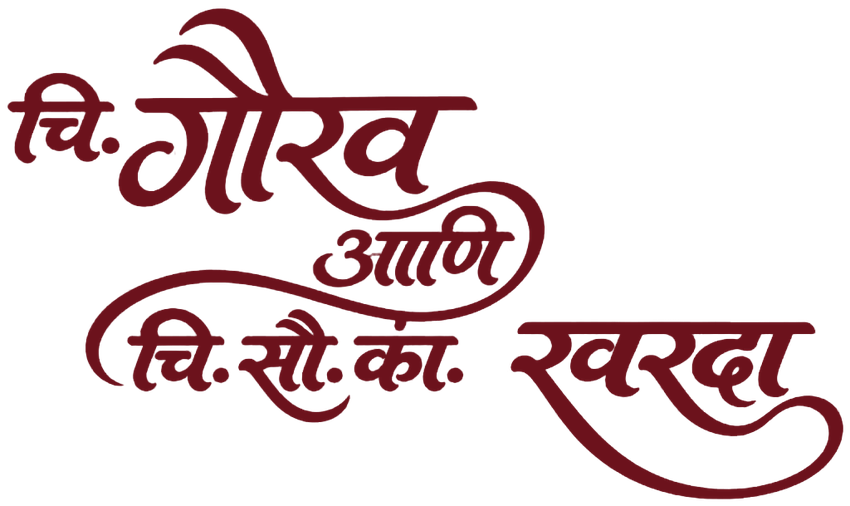
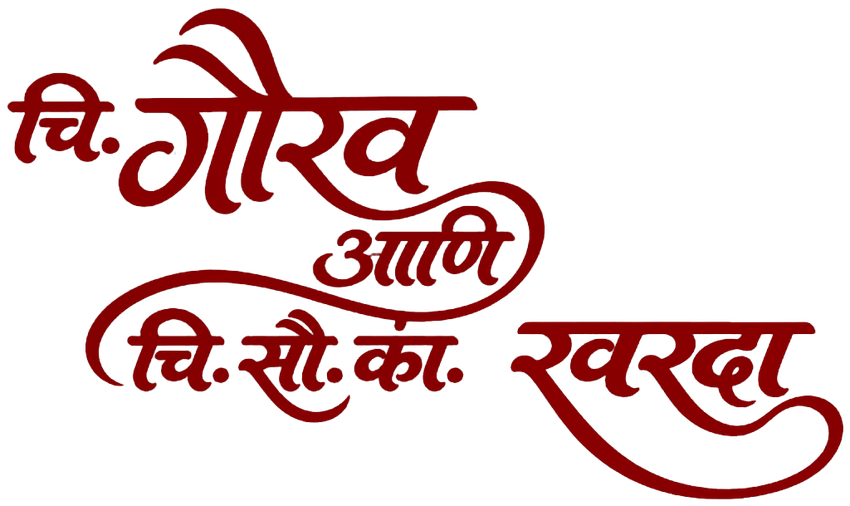
Update couple calligraphy color to match bride invitation crimson tone (#7D0001)

Changed region(s): [[0.0, 0.0, 0.6424, 0.83], [0.5812, 0.6225, 1.0, 1.0]]

diff --git a/index.html b/index.html
@@ -15,15 +15,15 @@
   <link rel="preconnect" href="https://fonts.googleapis.com">
   <link rel="preconnect" href="https://fonts.gstatic.com" crossorigin>
   <link rel="preconnect" href="https://ik.imagekit.io">
-  <link rel="preload" as="image" href="assets/couple-calligraphy.webp?v=11" type="image/webp" fetchpriority="high">
-  <link rel="preload" as="image" href="assets/couple-calligraphy-sec3.webp?v=11" type="image/webp">
+  <link rel="preload" as="image" href="assets/couple-calligraphy.webp?v=12" type="image/webp" fetchpriority="high">
+  <link rel="preload" as="image" href="assets/couple-calligraphy-sec3.webp?v=12" type="image/webp">
   <link rel="preload" as="image" href="https://ik.imagekit.io/greenspire/invitation/main-bg.avif" fetchpriority="high">
   <link rel="preload" as="image" href="https://ik.imagekit.io/greenspire/invitation/ganpati-logo.avif">
   <link rel="preload" as="image" href="assets/couple.webp?v=3" type="image/webp">
   <link
     href="https://fonts.googleapis.com/css2?family=Cinzel:wght@400;600;700;800&family=Cormorant+Garamond:ital,wght@0,400;0,600;0,700;1,400&family=Great+Vibes&family=Italianno&family=Noto+Serif+Devanagari:wght@400;600;700;800;900&family=Tiro+Devanagari+Marathi:ital,wght@0,400;0,700;1,400&family=Yatra+One&display=block"
     rel="stylesheet">
-  <link rel="stylesheet" href="css/style.css?v=176">
+  <link rel="stylesheet" href="css/style.css?v=177">
 
   <style>
     .stage-cover:not(.is-revealed) .cover-content,
@@ -52,8 +52,8 @@
 
             <div class="cover-names-wrap" role="heading" aria-level="1">
               <picture class="cover-calligraphy-picture">
-                <source srcset="assets/couple-calligraphy.webp?v=11" type="image/webp">
-                <img src="assets/couple-calligraphy.png?v=11" alt="चि. गौरव आणि चि. सौ. कां. स्वरदा"
+                <source srcset="assets/couple-calligraphy.webp?v=12" type="image/webp">
+                <img src="assets/couple-calligraphy.png?v=12" alt="चि. गौरव आणि चि. सौ. कां. स्वरदा"
                   class="cover-calligraphy-img" width="850" height="506" fetchpriority="high" decoding="async">
               </picture>
               <span class="sr-only">चि. गौरव आणि चि. सौ. कां. स्वरदा</span>
@@ -156,8 +156,8 @@
               </p>
               <div class="hero-names hero-calligraphy-wrap" role="heading" aria-level="2">
                 <picture class="hero-calligraphy-picture">
-                  <source srcset="assets/couple-calligraphy-sec3.webp?v=11" type="image/webp">
-                  <img src="assets/couple-calligraphy-sec3.png?v=11" alt="चि. गौरव आणि चि. सौ. कां. स्वरदा"
+                  <source srcset="assets/couple-calligraphy-sec3.webp?v=12" type="image/webp">
+                  <img src="assets/couple-calligraphy-sec3.png?v=12" alt="चि. गौरव आणि चि. सौ. कां. स्वरदा"
                     class="hero-calligraphy-img" width="850" height="539" loading="lazy" decoding="async">
                 </picture>
                 <span class="sr-only">चि. गौरव आणि चि. सौ. कां. स्वरदा</span>
@@ -316,7 +316,7 @@
   </button>
 
   <script src="js/config.js"></script>
-  <script src="js/app.js?v=136"></script>
+  <script src="js/app.js?v=137"></script>
 </body>
 
 </html>
